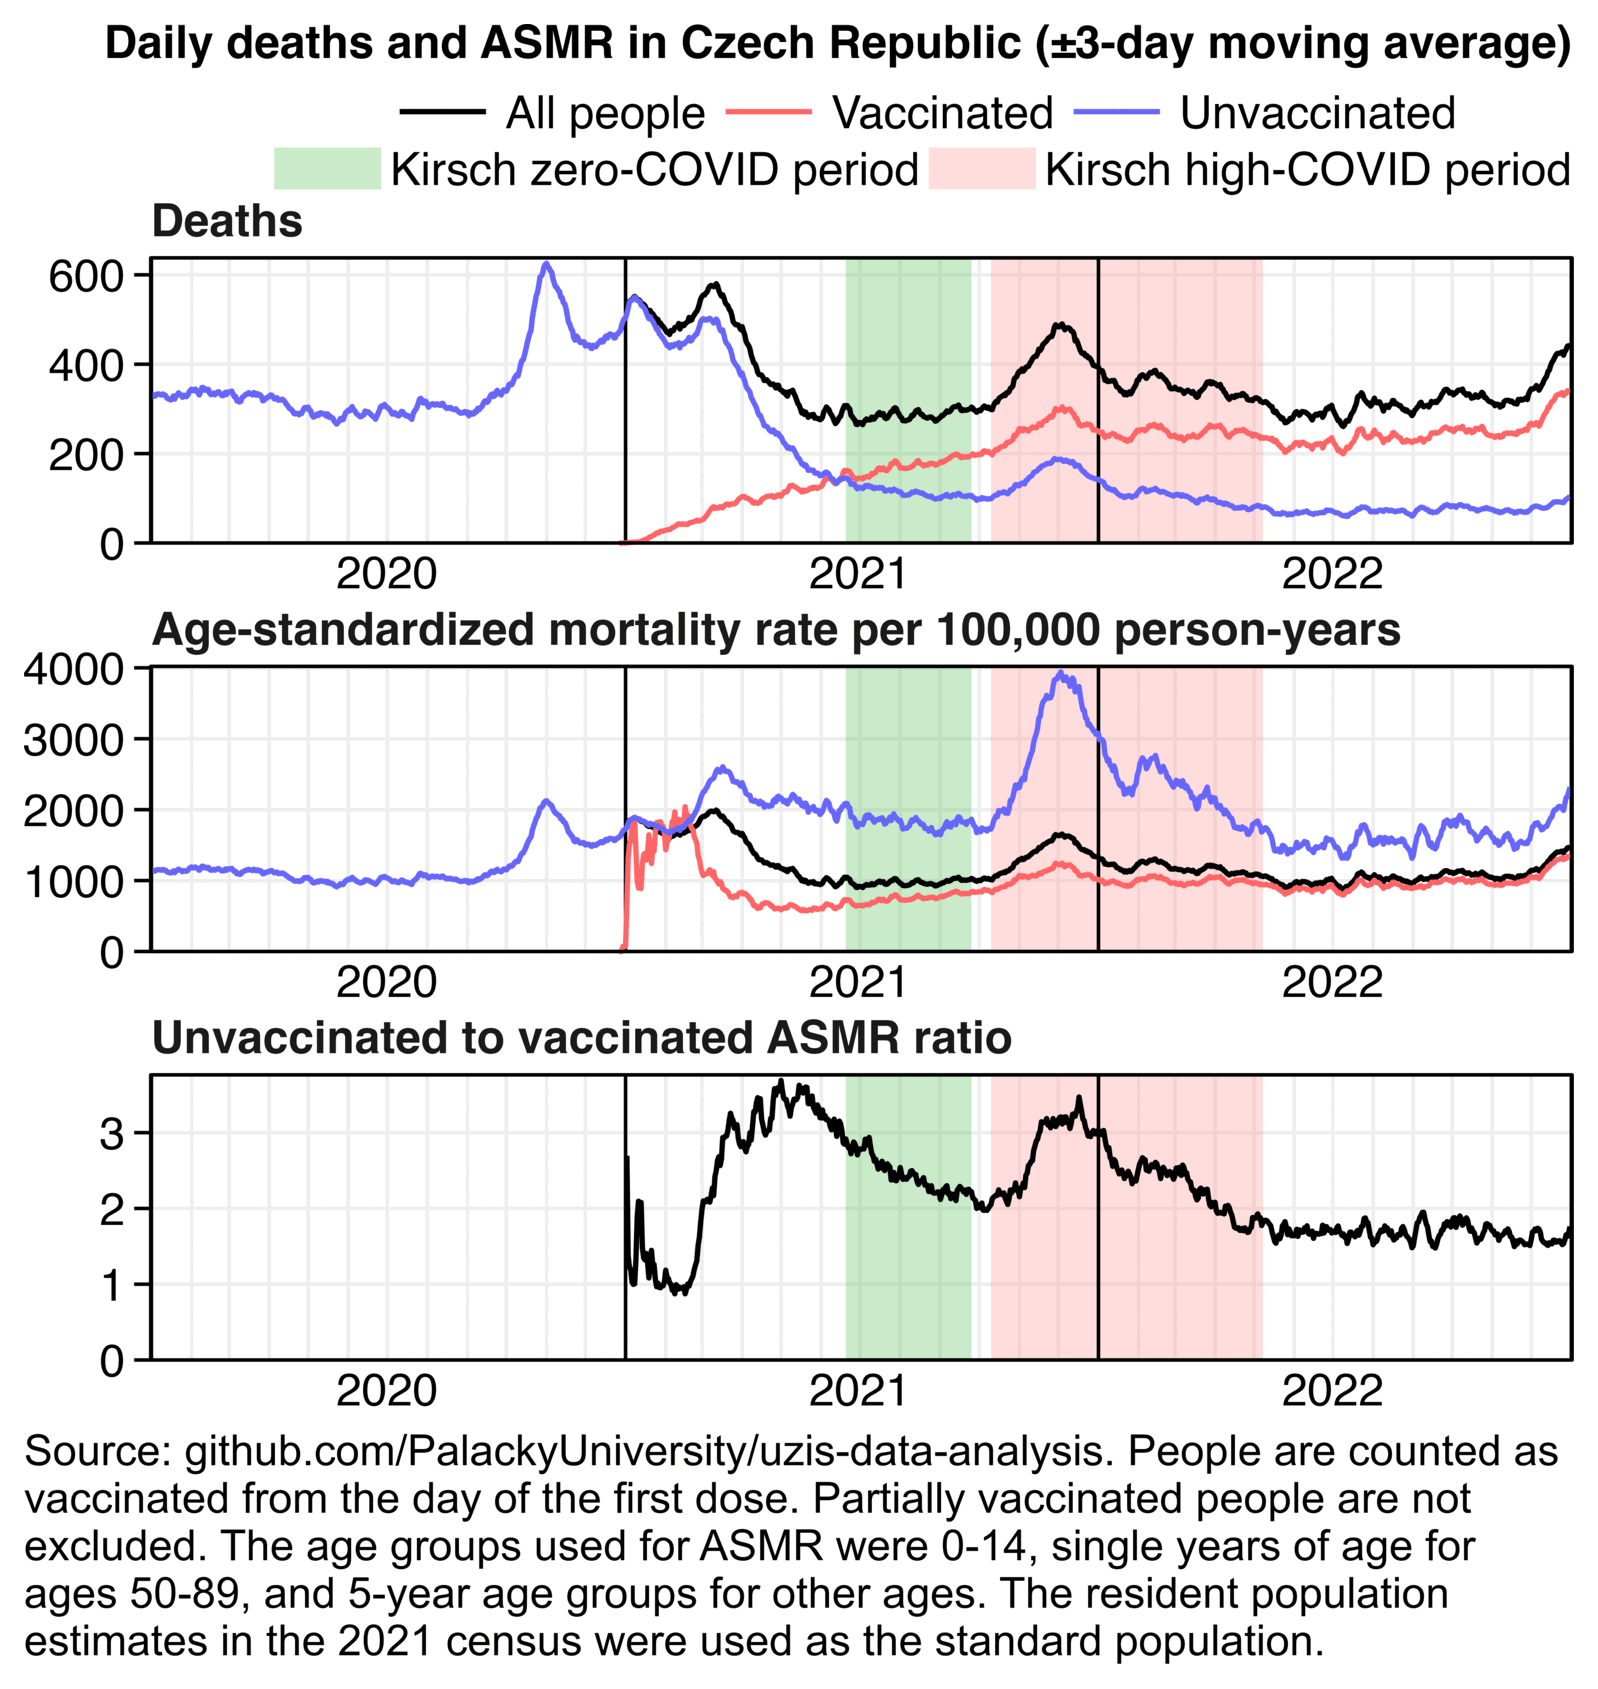
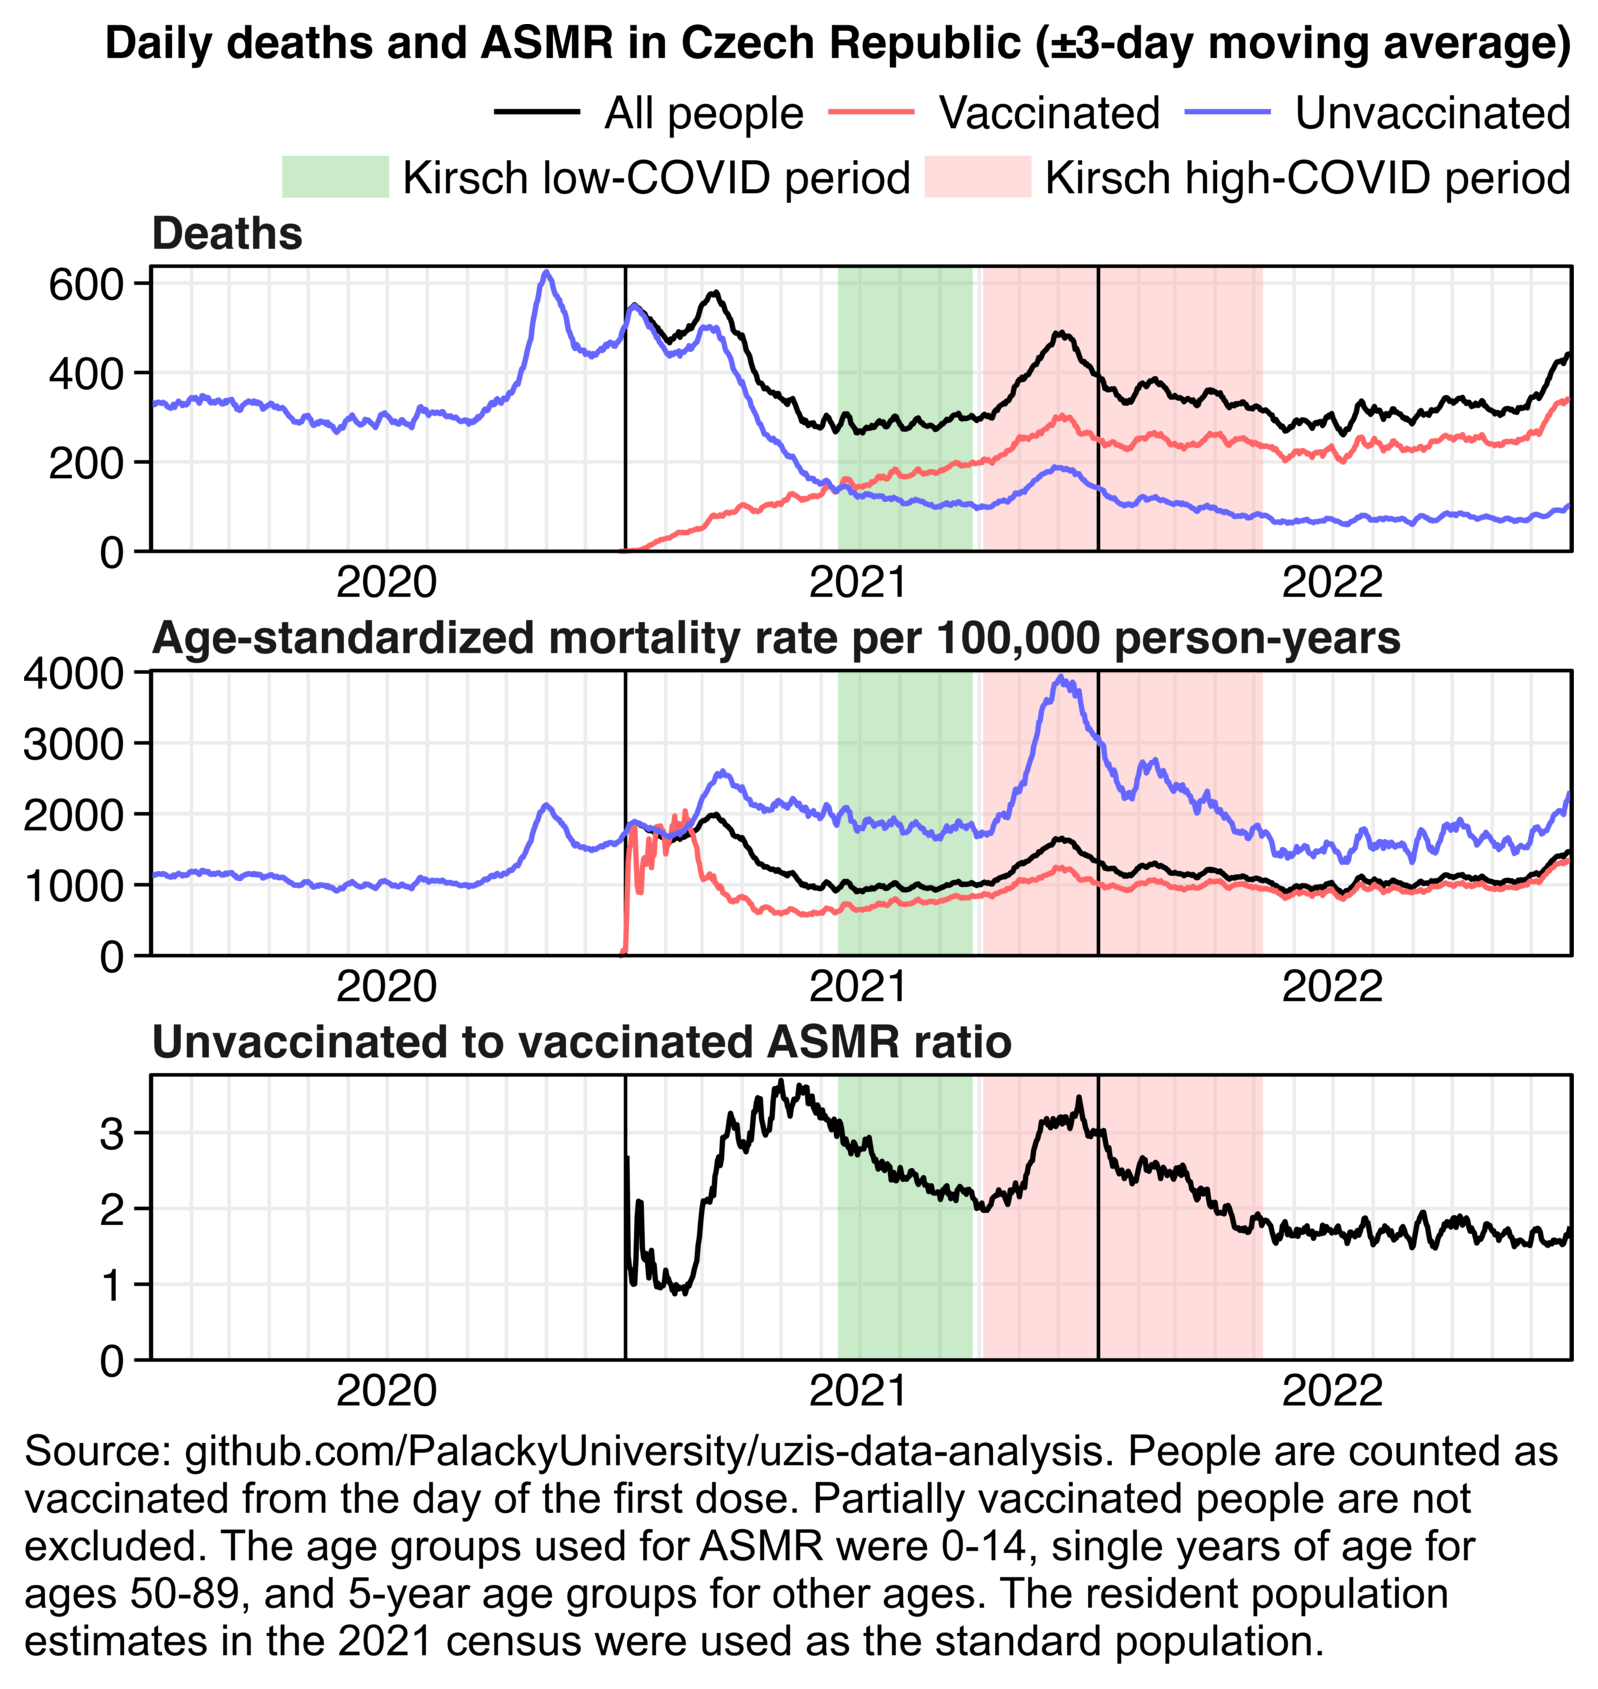
a

Changed region(s): [[0.0, 0.0616, 0.9812, 0.8005], [0.6746, 0.431, 0.7359, 0.4618], [0.3373, 0.4618, 0.368, 0.4926]]

diff --git a/rootclaim3.html b/rootclaim3.html
@@ -84,7 +84,10 @@ blockquote blockquote blockquote,blockquote blockquote .quote,blockquote .quote 
 <li><a href=#High_number_of_new_cases_in_Denmark_and_Israel_during_the_first_Omicron_wave>High number of new cases in Denmark and Israel during the first Omicron wave</a></li>
 <li><a href=#Case_fatality_rate_in_Pfizer_phase_3_trial>Case fatality rate in Pfizer phase 3 trial</a></li>
 </ul></li>
+<li><a href=#Other_posts_by_Kirsch>Other posts by Kirsch</a>
+<ul class=toc>
 <li><a href=#Mortality_during_COVID_and_non_COVID_periods_in_Czech_data>Mortality during COVID and non-COVID periods in Czech data</a></li>
+</ul></li>
 </ul>
 
 <h2>
@@ -1291,8 +1294,11 @@ Vaccine
 <pre>prop.test(c(1,2),c(81,873))$p.value
 # 0.61086</pre>
 <h2>
-<a href=#Mortality_during_COVID_and_non_COVID_periods_in_Czech_data id=Mortality_during_COVID_and_non_COVID_periods_in_Czech_data>Mortality during COVID and non-COVID periods in Czech data</a>
+<a href=#Other_posts_by_Kirsch id=Other_posts_by_Kirsch>Other posts by Kirsch</a>
 </h2>
+<h3>
+<a href=#Mortality_during_COVID_and_non_COVID_periods_in_Czech_data id=Mortality_during_COVID_and_non_COVID_periods_in_Czech_data>Mortality during COVID and non-COVID periods in Czech data</a>
+</h3>
 <p>Kirsch wrote: [<a href="https://kirschsubstack.com/p/the-czech-republic-record-level-data">https://kirschsubstack.com/p/the-czech-republic-record-level-data</a>]</p>
 <blockquote>
 <p>I'll show you how to prove the vaccine was useless using the <a href=https://www.nzip.cz/data/2135-covid-19-prehled-populace>latest Czech Republic data</a> which was made available in November 2024.</p>
@@ -1308,8 +1314,8 @@ Vaccine
 <p>To make it easier, you can <a href=https://github.com/skirsch/Czech/blob/ba4ac6038022fcc50542958dada041a07cbd1fd2/analysis/vax_24_1950.xlsx>download the 100MB Excel file from my github</a> where I've done all the work for you.</p>
 <p>You have to first calculate the number of alive vaxxed and unvaxxed people each day and then you can compute during the COVID and non-COVID periods the number of person weeks at risk of dying and the number of deaths and then normalize that for an annual rate. All the calculations are straightforward.</p>
 </blockquote>
-<p>Kirsch's low-COVID period consisted of June 20th 2021 to September 25th 2021. But especially during the earlier part of his low-COVID period, the ratio between unvaccinated and vaccinated mortality was elevated because there were still many people who had recently gotten the first vaccine dose so they were impacted by the temporal healthy vaccinee effect. His high-COVID period consists of October 10th 2021 to May 8th 2022, but in April 2022 there were no longer that many COVID deaths.</p>
-<p>When I edited Kirsch's spreadsheet so that I changed the high-COVID period to the Delta peak on weeks 45 to 52 of 2021 and I changed the low-COVID period to weeks 36 to 42 of 2021 which were before the Delta wave, the ratio between unvaccinated and vaccinated CMR was about 4.29 during the high-COVID period but only about 2.90 during the low-COVID period:</p>
+<p>Kirsch's low-COVID period consisted of June 14th 2021 to September 26th 2021. But especially during the earlier part of his low-COVID period, the ratio between unvaccinated and vaccinated mortality was elevated because there were still many people who had recently gotten the first vaccine dose so they were impacted by the temporal healthy vaccinee effect. His high-COVID period consists of October 4th 2021 to May 8th 2022, but in April 2022 there were no longer that many COVID deaths.</p>
+<p>When I edited Kirsch's spreadsheet so that I changed the high-COVID period to the Delta peak on weeks 45 to 52 of 2021 and I changed the low-COVID period to weeks 36 to 42 of 2021 which was before the Delta wave, the ratio between unvaccinated and vaccinated CMR was about 4.29 during the high-COVID period but only about 2.90 during the low-COVID period:</p>
 <div class="width6">
 <img src="i/rootclaim-czechrate-4.png">
 </div>
@@ -1351,7 +1357,7 @@ ybreak=pretty(c(0,p$y),7)
 
 segx=seq(xstart,xend,&quot;month&quot;)
 
-hl=data.table(start=as.Date(c(&quot;2021-6-20&quot;,&quot;2021-10-10&quot;)),end=as.Date(c(&quot;2021-9-25&quot;,&quot;2022-5-8&quot;)))
+hl=data.table(start=as.Date(c(&quot;2021-6-14&quot;,&quot;2021-10-4&quot;)),end=as.Date(c(&quot;2021-9-26&quot;,&quot;2022-5-8&quot;)))
 hl[,label:=c(&quot;Kirsch zero-COVID period&quot;,&quot;Kirsch high-COVID period&quot;)][,label:=factor(label,unique(label))]
 
 ggplot(p)+
@@ -1480,6 +1486,30 @@ ALL_deaths_in_medicare_per_day.xlsx).
 
 system(paste0(&quot;mogrify -trim 1.png;magick 1.png \\( -size `identify -format %w 1.png`x -font Arial -interline-spacing -3 -pointsize $[40*4] caption:&#39;&quot;,gsub(&quot;&#39;&quot;,&quot;&#39;\\\\&#39;&quot;,sub),&quot;&#39; -splice x80 \\) -append -resize 25% -bordercolor white -border 24 -colors 256 1.png&quot;))</pre>
 </div>
+<p>Kirsch posted this comment to me: [<a href="https://kirschsubstack.com/p/the-czech-republic-record-level-data/comment/98446416">https://kirschsubstack.com/p/the-czech-republic-record-level-data/comment/98446416</a>]</p>
+<blockquote>
+<p>I think you forgot to analyze the non-Covid period After the full Covid wave was over. There you will find that the vaccinated are dying at a higher rate than the rate they were dying before. And also, you didn't analyze the second part of the Covid wave where you would find the same bad news for the vaccinated. So sure you're gonna find Whatever you're looking for if you manipulate the dates. I didn't manipulate the dates. I simply chose the Covid period When the Covid test started going up and then ended it when the Covid numbers went back to near zero.</p>
+<p>if you then add on the second non-Covid. After that you will find That the vaccinated are now dying at a much higher rate than they were before during non-Covid periods.</p>
+</blockquote>
+<p>But I posted this response:</p>
+<blockquote>
+<p>You wrote: <span class="quote">"I think you forgot to analyze the non-Covid period After the full Covid wave was over. There you will find that the vaccinated are dying at a higher rate than the rate they were dying before."</span></p>
+<p>But that's because in mid-2021 there were still many recently vaccinated people who were impacted by the temporal HVE.</p>
+<p>My ASMR for people in the Czech dataset was about 969 in May 2020. In comparison the ASMR of vaccinated people was about 606 in May 2021 but about 900 in May 2022, so both were lower than the 2020 baseline, but 2021 was about 37% lower than the baseline because vaccinated people were heavily impacted by the temporal HVE in May 2021:</p>
+<pre>&gt; cul=\(x,y)y[cut(x,c(y,Inf),,T,F)]
+&gt; ages=c(0,3:9*5,50:89,18:20*5)
+&gt; t=fread(&quot;https://sars2.net/f/czbucketsdaily.csv.gz&quot;)
+&gt; a=t[month(date)==5,.(pop=sum(alive),dead=sum(dead)),.(vax=dose&gt;0,year=year(date),age=cul(age,ages))]
+&gt; a=merge(a,fread(&quot;https://sars2.net/f/czcensus2021pop.csv&quot;)[,sum(pop),.(age=cul(age,ages))][,.(age,std=V1/sum(V1))])
+&gt; a[,.(asmr=round(sum(dead/pop*std*365e5))),.(year,vax)]|&gt;print(r=F)
+year   vax asmr # ASMR per 100,000 person-years in May of each year
+2020 FALSE  969
+2021  TRUE  606
+2021 FALSE 2081
+2022  TRUE  900
+2022 FALSE 1584</pre>
+<p>If you would've used the second half of 2022 as your low-COVID period then it wouldn't have been confounded as much by the temporal HVE. My code above shows the ratio between unvaccinated and vaccinated ASMR was about 3.4 in 2021 but only about 1.8 in 2022.</p>
+</blockquote>
 <script>
 let q=document.querySelectorAll('a,code,pre')
 for(let i=0;e=q[i];i++)e.innerHTML=e.innerHTML.replace(/(\w{60,})/g,x=>x.replace(/./g,'$&<wbr>')).replace(/([\041-\045\047-\057\072\075\077-\100\133-\137\173-\176])/g,'$1<wbr>')

diff --git a/r.html b/r.html
@@ -1563,14 +1563,14 @@ pre{width:fit-content;margin:6px auto;color:white;white-space:pre-wrap;word-wrap
 <span class=output>
 <span class=title># convert dates to weeks indicated by date of Sunday</span></span>
 <span class=prompt>&gt;</span> <span class=code>dates=as.Date(&quot;2025-2-1&quot;)+0:6</span>
-<span class=prompt>&gt;</span> <span class=code>`class&lt;-`(as.integer(dates)%/%7*7+3,&quot;Date&quot;)</span><span class=comment> # `+3` is because January 4th 1970 is first Sunday after the epoch</span>
+<span class=prompt>&gt;</span> <span class=code>`class&lt;-`(as.integer(dates)%/%7*7+3,&quot;Date&quot;)</span><span class=comment> # `+3` is because January 4th 1970 is the first Sunday after the epoch</span>
 <span class=output>[1] &quot;2025-02-02&quot; &quot;2025-02-02&quot; &quot;2025-02-02&quot; &quot;2025-02-02&quot; &quot;2025-02-02&quot; &quot;2025-02-09&quot; &quot;2025-02-09&quot;</span>
 <span class=output>
 <span class=title># convert a file that has multiple keys with one shared value on each row to a named vector</span></span>
-<span class=prompt>&gt;</span> <span class=code>states=fread(&quot;region states</span>
+<span class=prompt>&gt;</span> <span class=code>input=fread(text=&quot;region states</span>
 <span class=prompt>&gt;</span> <span class=code>Northeast CT,MA,ME,NH,NJ,NY,PA,RI,VT</span>
 <span class=prompt>&gt;</span> <span class=code>Midwest IA,IL,IN,KS,MI,MN,MO,ND,NE,OH,SD,WI&quot;)</span>
-<span class=prompt>&gt;</span> <span class=code>states[,{x=strsplit(states,&quot;,&quot;);setNames(rep(region,lengths(x)),unlist(x))}]</span>
+<span class=prompt>&gt;</span> <span class=code>input[,{x=strsplit(states,&quot;,&quot;);setNames(rep(region,lengths(x)),unlist(x))}]</span>
 <span class=output>         CT          MA          ME          NH          NJ          NY</span>
 <span class=output>&quot;Northeast&quot; &quot;Northeast&quot; &quot;Northeast&quot; &quot;Northeast&quot; &quot;Northeast&quot; &quot;Northeast&quot;</span>
 <span class=output>         PA          RI          VT          IA          IL          IN</span>
@@ -1584,7 +1584,7 @@ pre{width:fit-content;margin:6px auto;color:white;white-space:pre-wrap;word-wrap
 <span class=prompt>&gt;</span> <span class=code>v=5:9;cumsum(v)/1:length(v)</span>
 <span class=output>[1] 5.0 5.5 6.0 6.5 7.0</span>
 <span class=output>
-<span class=title># add row for rowsums of other columns except first column</span></span>
+<span class=title># add a row for rowsums of other columns except the first column</span></span>
 <span class=prompt>&gt;</span> <span class=code>d=data.table(mtcars,keep.rownames=T)[1:2];d</span>
 <span class=output>              rn mpg cyl disp  hp drat    wt  qsec vs am gear carb</span>
 <span class=output>1:     Mazda RX4  21   6  160 110  3.9 2.620 16.46  0  1    4    4</span>
@@ -1594,4 +1594,9 @@ pre{width:fit-content;margin:6px auto;color:white;white-space:pre-wrap;word-wrap
 <span class=output>1:     Mazda RX4  21   6  160 110  3.9 2.620 16.46  0  1    4    4</span>
 <span class=output>2: Mazda RX4 Wag  21   6  160 110  3.9 2.875 17.02  0  1    4    4</span>
 <span class=output>3:         Total  42  12  320 220  7.8 5.495 33.48  0  2    8    8</span>
+<span class=output>
+<span class=title># convert string vector to factor where original order is preserved</span></span>
+<span class=prompt>&gt;</span> <span class=code>factor(1:2,,c(&quot;Male&quot;,&quot;Female&quot;))</span>
+<span class=output>[1] Male   Female</span>
+<span class=output>Levels: Male Female</span>
 </pre>
